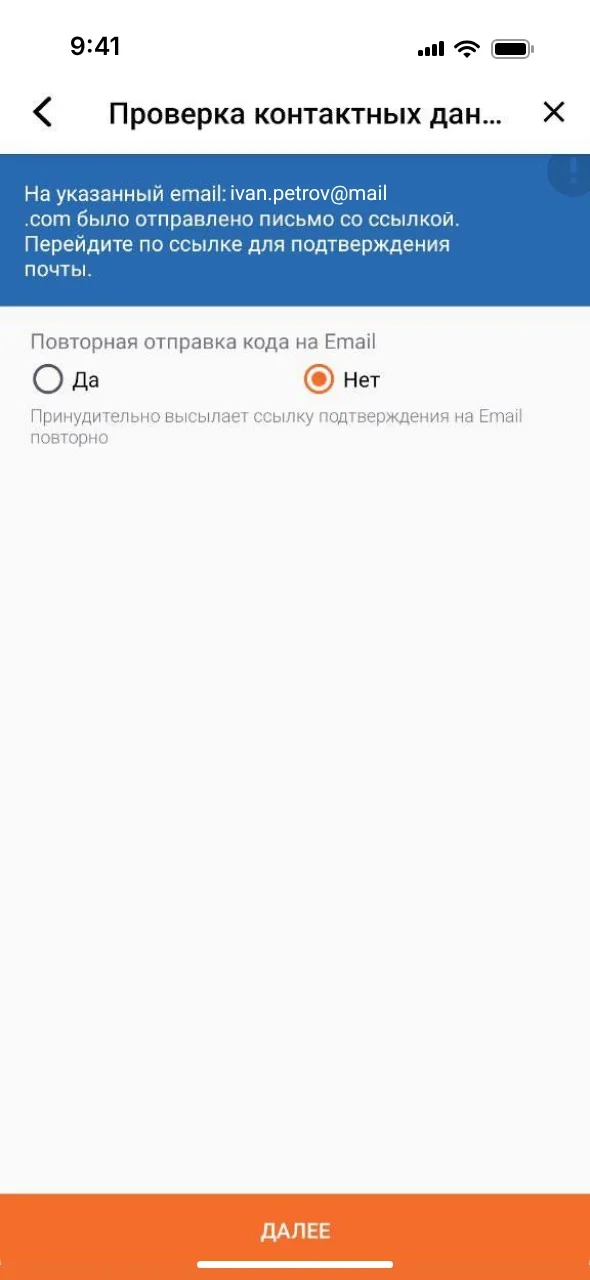
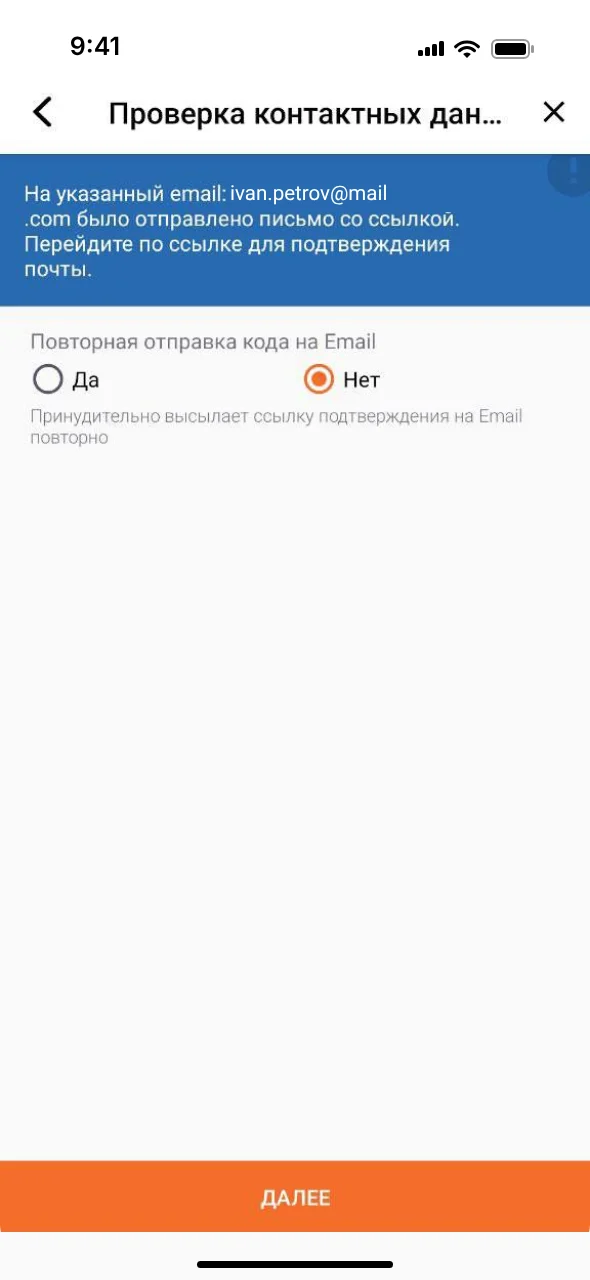
Lift the bottom buttons of the PSB before screens above the home indicator
Claude-Session: https://claude.ai/code/session_01K9M4KKip7VrCMi121CRaVU

Changed region(s): [[0.0, 0.9062, 1.0, 1.0]]

diff --git a/tools/psb-before/fix.html b/tools/psb-before/fix.html
@@ -17,6 +17,43 @@
         BAR = 70;
       // Android screens: status bar rows 0..43, nav bar from 1239
       const ANDROID = [3, 4, 5, 6, 8, 9, 10];
+      // Android screens whose full-width button sat on the nav bar
+      const LIFTED = [5, 6, 9, 10];
+      const SAFE = 48;
+      // The longest stretch of rows that are one flat colour, as [from, to) in source rows
+      function emptyRun(img, y0, y1) {
+        const c = document.createElement('canvas');
+        c.width = W;
+        c.height = H;
+        const k = c.getContext('2d');
+        k.drawImage(img, 0, 0);
+        const d = k.getImageData(0, 0, W, H).data;
+        const flat = (y) => {
+          const i0 = (y * W + 8) * 4;
+          for (let x = 8; x < W - 8; x += 3) {
+            const i = (y * W + x) * 4;
+            if (
+              Math.abs(d[i] - d[i0]) +
+                Math.abs(d[i + 1] - d[i0 + 1]) +
+                Math.abs(d[i + 2] - d[i0 + 2]) >
+              9
+            )
+              return false;
+          }
+          return true;
+        };
+        let best = [y0, y0];
+        let start = -1;
+        for (let y = y0; y <= y1; y++) {
+          if (y < y1 && flat(y)) {
+            if (start < 0) start = y;
+          } else if (start >= 0) {
+            if (y - start > best[1] - best[0]) best = [start, y];
+            start = -1;
+          }
+        }
+        return best;
+      }
       const load = (src) =>
         new Promise((r) => {
           const i = new Image();
@@ -141,9 +178,22 @@
             top = px(img, 6, 50);
             ctx.fillStyle = `rgb(${top})`;
             ctx.fillRect(0, 0, W, H);
-            ctx.drawImage(img, 0, 44, W, 1195, 0, BAR, W, 1195);
-            ctx.fillStyle = `rgb(${px(img, 40, 1236)})`;
-            ctx.fillRect(0, BAR + 1195, W, H - BAR - 1195);
+            if (LIFTED.includes(n)) {
+              // A full-width button at the bottom: lift it above the home indicator like an
+              // iOS safe area, taking the room out of the screen's longest empty stretch
+              const cut = BAR + 1195 + SAFE - H;
+              const [from, to] = emptyRun(img, 44, 1239);
+              const at = Math.round((from + to) / 2 - cut / 2);
+              ctx.drawImage(img, 0, 44, W, at - 44, 0, BAR, W, at - 44);
+              const rest = 1239 - (at + cut);
+              ctx.drawImage(img, 0, at + cut, W, rest, 0, BAR + at - 44, W, rest);
+              ctx.fillStyle = `rgb(${px(img, 6, from + 4)})`;
+              ctx.fillRect(0, H - SAFE, W, SAFE);
+            } else {
+              ctx.drawImage(img, 0, 44, W, 1195, 0, BAR, W, 1195);
+              ctx.fillStyle = `rgb(${px(img, 40, 1236)})`;
+              ctx.fillRect(0, BAR + 1195, W, H - BAR - 1195);
+            }
           } else {
             top = px(img, 40, 70);
             ctx.fillStyle = `rgb(${top})`;

diff --git a/CLAUDE.md b/CLAUDE.md
@@ -41,5 +41,5 @@
 - Готово (ветка `claude/wonderful-wright-xhhyv3`, слита в `main`): разгрузка обзора PSB — владелец счёл блоки «Проблемы и решения» и «Результаты» слишком тяжёлыми («слишком много акцентов одновременно»). Было шесть цветов, восемь плашек, десять крупных элементов, три анимации. Сделано: «Результаты» без плашек — шкалы прямо на листе, сетка 2×2 с пунктирами, как HUD Зельды поверх мира; все шкалы голубые, числа цвета чернил, розовые только сердечки (токены `--mana-*`, `--stamina-*`, `--heart-text` удалены). В колоде заданий без спрайтов и анимации, стрелка серая (`--text-disabled`), решение обычной насыщенности. Единственное движение на экране — шкалы. Затем по замечаниям владельца: подписи в карточках колоды и шкал — полужирные цвета чернил в размере основного текста (мелкие серые «Главная», «Данные карты» терялись); в «Результатах» сначала число, под ним шкала, между шагами и временем 24px, вокруг пунктиров `--space-stack` (было слипшимся). «Результаты» всё равно были «тяжеловато и скомканно» — переделаны в ряд метрик одной структуры (`Hud.astro`, по руководству dataviz: KPI-ряд одинаковых плиток): подпись, крупное число Fira Sans semibold с мелкой единицей, строки пояснения, одна шкала, прижатая к низу, чтобы шкалы стояли на одной линии. Четыре в ряд (контейнер ≤720px — 2×2), без плашек и пунктиров. Время — одна полоса: светлый трек того же голубого — «было», заливка — «стало»; ячейки шагов убраны, шаги в пояснении («5 шагов вместо 12»); мана — полоса; лёгкость — сердечки. Отступы проверены замером по закону близости (NN/g «Proximity»: заголовок ближе к своему тексту, чем к предыдущему; правило «внутри ≤ снаружи», равенство делает группы неоднозначными): заголовок блока → содержимое 16px, между карточками колоды 24px (рамка сайта; было 20 = внутреннему полю), колонки метрик 40px (на ≤720px — 24), сноска под метриками на 40px, как ряды. В метрике шкала сразу под числом (12px), пояснения под шкалой: раньше шкала прижималась к низу и отрывалась от числа. На телефоне общее `.sheet > * + * { 24px }` перебивало отступ подразделов — для `.sub-title`, `.quests`, `.results` там 48px.
 - Готово (ветка `claude/wonderful-wright-xhhyv3`, слита в `main`): «Результаты» PSB — шкалы, как в Зельде (`components/case/Hud.astro`, данные `stats` в `psb.astro`, запуск `initHud` в `case.ts`). Шаги — ячейки, лишние гаснут с конца; время — две полосы выносливости «было/стало» (зелёная), «стало» сжимается от прежней длины; first click success — мана (лиловая); SEQ — семь сердечек (розовые), неполное заливается целыми пикселями. Играют один раз при появлении, при reduced motion и без JS сразу конечное состояние. Цифры в тон шкале, затемнённые до 3:1 (токены `--mana-*`, `--stamina-*`, `--heart-*` в `colors.css`, полосы — цвета поляны футера), шаги остаются голубыми; Fira Mono (у Handjet перечёркнутый ноль, 105 читалось как 185). Владелец выбрал их из трёх набросков; не выбраны окно итогов боя в духе Final Fantasy и «сравнение снаряжения». Обзор: вступление — история, «Задания» — пары «проблема → решение», «Результаты» — цифры. Блок «Проблемы и решения» (раньше «Задания», переименовал владелец; `components/case/QuestDeck.astro`, данные `quests` в `psb.astro`) — колода карточек, рифмуется с «Результатами»: те же карточки (`--surface-raised`, пиксельные углы) в той же сетке 2×2, сверху подпись (спрайт 2px на пиксель + название-ссылка на раздел), ниже приглушённая проблема, голубая пиксельная стрелка вниз и крупно решение — как большое число на шкалах; стрелка с решением прижаты к низу, чтобы решения в ряду стояли на одной линии. При появлении стрелки по очереди «шагают» вниз (тот же `initHud` через `data-hud`), при reduced motion сразу. Зачёркивание проблемы владелец отклонил (читается хуже, похоже на ошибку); не выбраны также подписи «Было / Стало», значки «!» и галочки, пунктир. На телефоне (контейнер ≤560px) колода листается свайпом по одной карточке со scroll-snap, следующая выглядывает, под ней точки (`initQuestDeck` в `case.ts`). В карточке по одной целой мысли на проблему и на решение, понятной без раздела ниже: сокращения до 4–6 слов («Третья вкладка и CVV по СМС») владелец счёл непонятными; слово из подписи в тексте не повторять («Их можно…»). Иконки заголовков — пиксельные `scroll` (свиток задания, закрученный край сверху и валик снизу; симметричный вариант читался как колонна) и `trophy` (кубок у «Результатов»: столбики графика владелец счёл неподходящими); неиспользуемые `alert`, `spark`, `trend` удалены из `pixel-icons.ts`. Отклонены: полоса из четырёх столбцов (на телефоне «месиво»), две колонки абзацев («простыня текста»), задания внутри карточек результатов. Перед «Заданиями» и «Результатами» отступ `--space-article`, как между подразделами: с обычным отступом вступление, задания и результаты сливались в один поток. Главное в блоке — связка проблемы и решения: убрать проблемы ради разгрузки было ошибкой (владелец: «должны показать проблему и её решение»). «Результаты» — четыре карточки: кешбэк и данные карты (в каждой шаги ячейками и время полосами, `kind: 'flow'` в `Hud.astro`), мана и сердечки. Владелец отклонил: журнал с вкладками (тёмная активная вкладка и плашки тяжелы рядом со шкалами; прятать суть кейса во вкладки нельзя — NN/g «Tabs, Used Right», GOV.UK «tabs hide content», нанимающие сканируют портфолио), добычу (монеты, рупии) в заданиях — перегруз мелкими элементами и повтор цифр результатов, «дебафф → бафф», статус-эффекты, карточки предметов, плашки с отрядом.
 - Готово (ветка `claude/charming-cray-bsbm8d`): на телефоне страница PSB больше не прокручивается вбок в пустоту — скрытые подписи «Было/Стало» в колоде «Проблемы и решения» (`position: absolute`) вылезали из свайп-ленты и растягивали страницу вдвое; `.quest` теперь `position: relative`. Живые прототипы снова на Onest: приложение задаёт шрифт на `<body>`, которого в shadow root нет, и туда протекал Fira Sans страницы — шрифт задан на `.app` в `LivePhone.astro`.
-- Готово (ветка `claude/loving-mayer-3zliux`): «до/после» в разделе «Подключение кешбэка» PSB — забег (`components/case/Race.astro`, `initRace` в `case.ts`, данные `race` у направления в `psb.astro`). Владелец выбрал его из трёх набросков; не выбраны маршрут (дорога в масштабе времени) и стопки экранов, отклонены две карусели и сетка маленьких экранов «до». Два iPhone 17 Pro рядом, «Было» и «Стало», стартуют вместе, когда забег на экране, и идут по измеренным медианам (105 и 23 с), ускоренно в 7 раз; вне экрана пауза, кнопка «Ещё раз». Экраны распределены по времени равномерно (время отдельных шагов не мерили), следующий въезжает коротким сдвигом поверх прежнего. Под телефоном полоса времени в общем масштабе (по самому долгому пути: «Было» заполняет её целиком серым, «Стало» останавливается на 23 с голубым; сегментированные ячейки владелец забраковал), таймер Fira Sans, «Шаг N из M · подпись экрана», на финише «кешбэка нет» / «готово». Когда старый путь уходит из приложения, у подписи «Было» голубым «почта» / «браузер» (`away`). Без JS и при reduced motion — финиш. `Phone` принимает массив экранов (видим `is-on`, по умолчанию последний). Экраны «до» — исходный флоу из Figma-файла PSB (секция «Пользователь подключает кешбэк», node 28-489), 11 штук `public/assets/cases/psb/before/cb-*.webp` 590×1280, последний — та же главная без кешбэка. Экраны вычищены под iPhone скриптом `tools/psb-before/render.mjs` (canvas в Chromium, исходники из Figma в `tools/psb-before/src/`): Android-статусбар и панель кнопок заменены статусбаром iOS «9:41» и полоской «домой», у iOS-экранов статусбар перерисован так же, на главной убраны красные рамки-пометки сценария, замазанная почта заменена выдуманной ivan.petrov@mail.ru. «Стало» — шесть экранов, снятых с живого прототипа «Подключение кешбэка» из «Финальных экранов» (`public/assets/cases/psb/race/`): «Хочу подключить», выбор без отметок, по очереди отмечены «Авиабилеты», «Такси», «Деливери» (категорий три, кнопка считает «Выбрано N из 3» и на третьей становится «Подключить», остальные чекбоксы гаснут), успех. Снимались Playwright-ом: телефон вынут из колоды в фиксированный блок 441px, заглушка и корпус скрыты, свой «остров» приложения (`.portfolio-island`) спрятан, клики — `el.click()` (у телефонов колоды не на переднем плане клики выключены); по краям снимка 2px фона страницы, обрезаны по 3px сверху и с боков. Внутри одного экрана (поставили галочку, `same: true`) экран меняется без сдвига — сдвиг на каждой галочке владелец назвал «адской тряской». Экраны забега грузятся заранее и забег стартует после `decode()`, иначе при первой смене мелькал чёрный экран. `cb-off.webp`, `cb-connect.webp`, `success.webp` не трогать: по ним измерены нажатия в `TestingScene`. Текст «Проблема / Решение / Результат» переписан по флоу: где прятался кешбэк, почему путь длинный (почта, браузер, ошибка, согласие), что теперь (внутри приложения, сразу виден у баланса), одна главная цифра и честный минус (63% без ошибок).
+- Готово (ветка `claude/loving-mayer-3zliux`): «до/после» в разделе «Подключение кешбэка» PSB — забег (`components/case/Race.astro`, `initRace` в `case.ts`, данные `race` у направления в `psb.astro`). Владелец выбрал его из трёх набросков; не выбраны маршрут (дорога в масштабе времени) и стопки экранов, отклонены две карусели и сетка маленьких экранов «до». Два iPhone 17 Pro рядом, «Было» и «Стало», стартуют вместе, когда забег на экране, и идут по измеренным медианам (105 и 23 с), ускоренно в 7 раз; вне экрана пауза, кнопка «Ещё раз». Экраны распределены по времени равномерно (время отдельных шагов не мерили), следующий въезжает коротким сдвигом поверх прежнего. Под телефоном полоса времени в общем масштабе (по самому долгому пути: «Было» заполняет её целиком серым, «Стало» останавливается на 23 с голубым; сегментированные ячейки владелец забраковал), таймер Fira Sans, «Шаг N из M · подпись экрана», на финише «кешбэка нет» / «готово». Когда старый путь уходит из приложения, у подписи «Было» голубым «почта» / «браузер» (`away`). Без JS и при reduced motion — финиш. `Phone` принимает массив экранов (видим `is-on`, по умолчанию последний). Экраны «до» — исходный флоу из Figma-файла PSB (секция «Пользователь подключает кешбэк», node 28-489), 11 штук `public/assets/cases/psb/before/cb-*.webp` 590×1280, последний — та же главная без кешбэка. Экраны вычищены под iPhone скриптом `tools/psb-before/render.mjs` (canvas в Chromium, исходники из Figma в `tools/psb-before/src/`): Android-статусбар и панель кнопок заменены статусбаром iOS «9:41» и полоской «домой» (широкие оранжевые кнопки внизу экранов 5, 6, 9, 10 подняты на 48px, как над безопасной зоной iOS, место вырезано из самой длинной пустой полосы экрана — прижатую к низу кнопку владелец забраковал), у iOS-экранов статусбар перерисован так же, на главной убраны красные рамки-пометки сценария, замазанная почта заменена выдуманной ivan.petrov@mail.ru. «Стало» — шесть экранов, снятых с живого прототипа «Подключение кешбэка» из «Финальных экранов» (`public/assets/cases/psb/race/`): «Хочу подключить», выбор без отметок, по очереди отмечены «Авиабилеты», «Такси», «Деливери» (категорий три, кнопка считает «Выбрано N из 3» и на третьей становится «Подключить», остальные чекбоксы гаснут), успех. Снимались Playwright-ом: телефон вынут из колоды в фиксированный блок 441px, заглушка и корпус скрыты, свой «остров» приложения (`.portfolio-island`) спрятан, клики — `el.click()` (у телефонов колоды не на переднем плане клики выключены); по краям снимка 2px фона страницы, обрезаны по 3px сверху и с боков. Внутри одного экрана (поставили галочку, `same: true`) экран меняется без сдвига — сдвиг на каждой галочке владелец назвал «адской тряской». Экраны забега грузятся заранее и забег стартует после `decode()`, иначе при первой смене мелькал чёрный экран. `cb-off.webp`, `cb-connect.webp`, `success.webp` не трогать: по ним измерены нажатия в `TestingScene`. Текст «Проблема / Решение / Результат» переписан по флоу: где прятался кешбэк, почему путь длинный (почта, браузер, ошибка, согласие), что теперь (внутри приложения, сразу виден у баланса), одна главная цифра и честный минус (63% без ошибок).
 - Дальше: остальные страницы кейсов проектируем заново, черновик Claude Design для них не используем.
